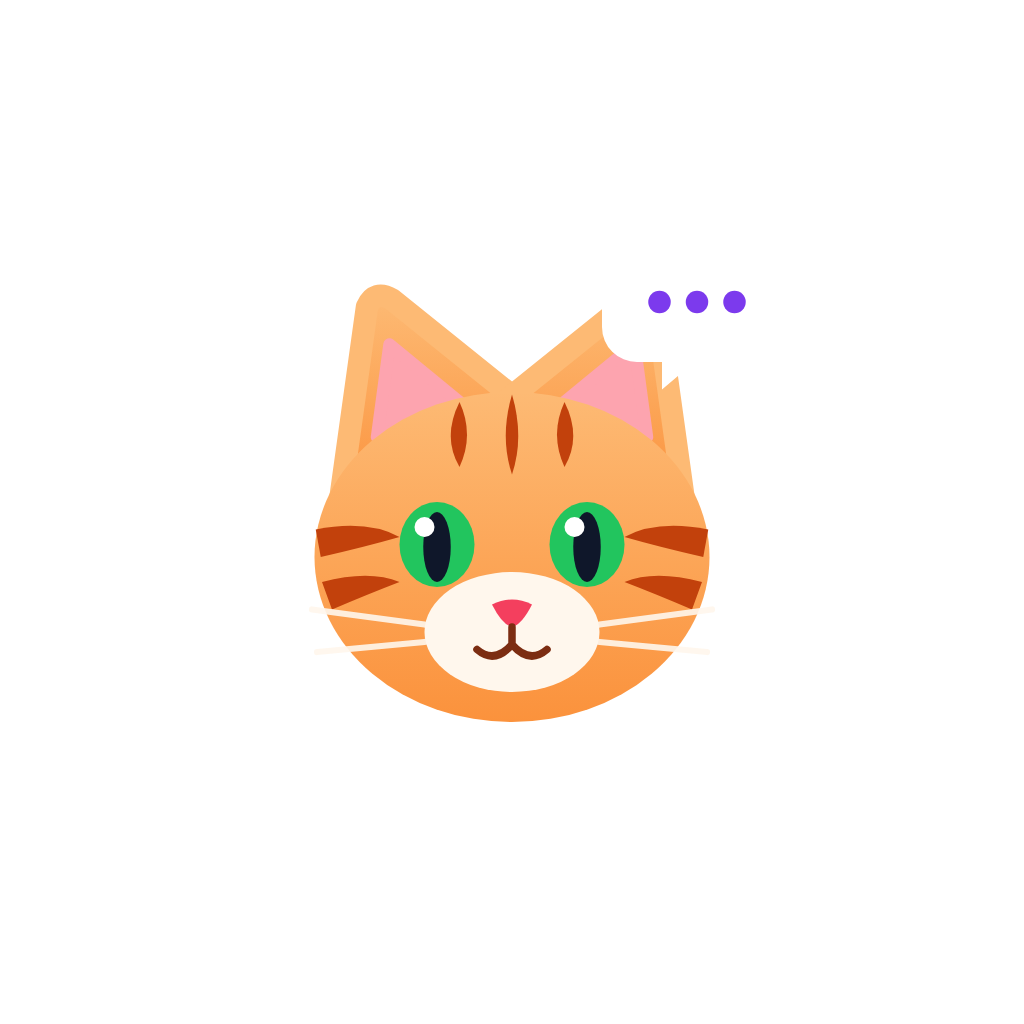
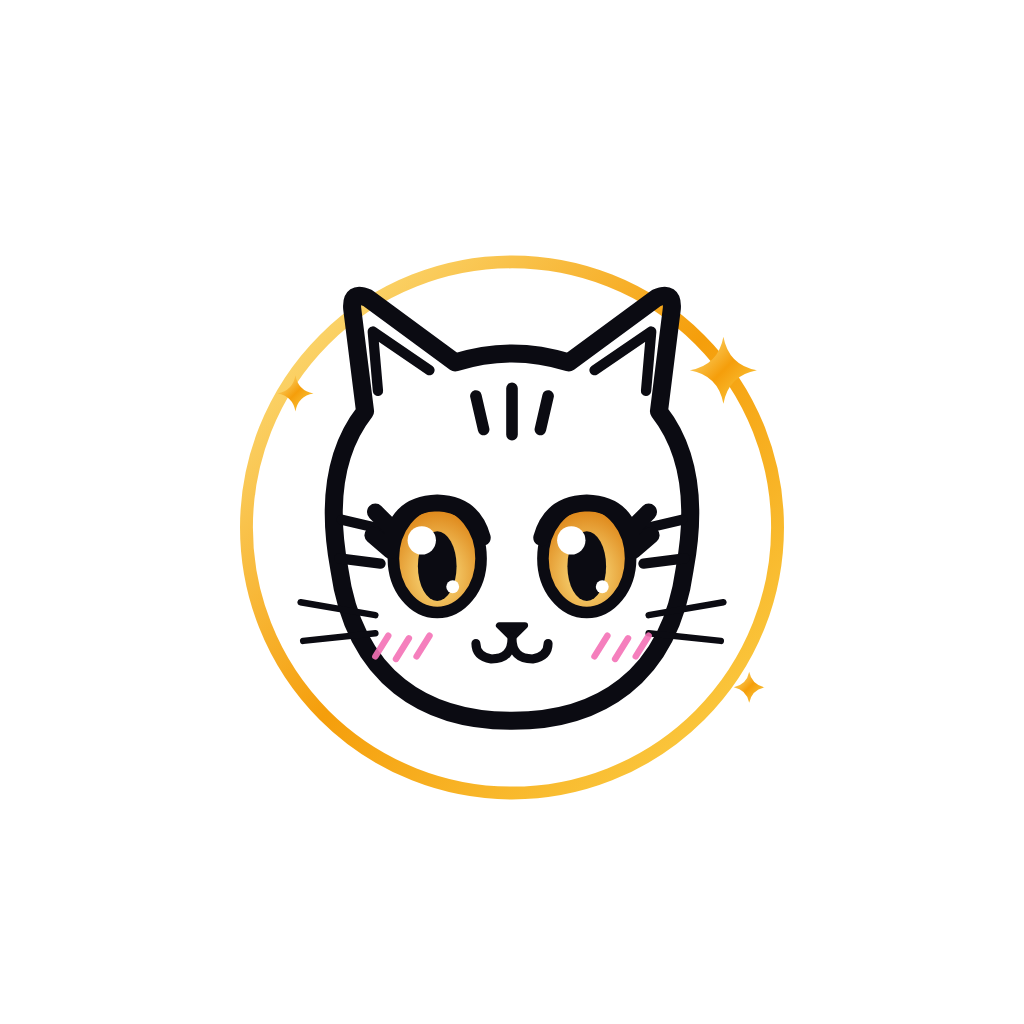
Clã Speak: gatinho só em contorno preto, estilo anime, no roxo e dourado
- Novo ícone (olhos dourados de anime, bochechas coradas, aro e brilhos dourados).
- Tela de abertura em roxo liso (APK bem menor) e telas do app em roxo com detalhes dourados.

Claude-Session: https://claude.ai/code/session_01LArP6X98NYfeHG5D1BxZJ1

Changed region(s): [[0.2188, 0.25, 0.7812, 0.7188], [0.3438, 0.7188, 0.6562, 0.7812]]

diff --git a/app/tradutor.html b/app/tradutor.html
@@ -19,7 +19,7 @@ button.sec{background:#e2e8f0;color:var(--tx)}
 button:disabled{opacity:.5}
 select,input{width:100%;padding:12px;border:1px solid #cbd5e1;border-radius:12px;background:#fff}
 label{display:block;font-size:.85rem;color:var(--mu);margin:12px 0 4px}
-header{background:linear-gradient(135deg,#7c3aed,#0ea5e9);color:#fff;padding:calc(env(safe-area-inset-top) + 10px) 14px 10px;display:flex;align-items:center;gap:10px}
+header{background:linear-gradient(135deg,#7c3aed,#4c1d95);border-bottom:3px solid #f59e0b;color:#fff;padding:calc(env(safe-area-inset-top) + 10px) 14px 10px;display:flex;align-items:center;gap:10px}
 header h1{font-size:1.1rem;margin:0;flex:1}
 header button{background:rgba(255,255,255,.18);padding:8px 12px;font-size:.9rem}
 .tela{display:none;height:100%;flex-direction:column}
@@ -39,7 +39,7 @@ header button{background:rgba(255,255,255,.18);padding:8px 12px;font-size:.9rem}
 .msg.vivo{opacity:.75;border:1px dashed var(--c2)}
 .msg button.ouvir{background:none;color:var(--c);padding:2px 6px;font-size:.85rem}
 #pessoas{font-size:.8rem;color:#ede9fe}
-.marca{display:flex;align-items:center;gap:10px}.marca img{width:36px;height:36px;border-radius:10px}
+.marca{display:flex;align-items:center;gap:10px}.marca img{width:38px;height:38px;border-radius:10px;box-shadow:0 0 0 2px #f59e0b}
 .barra{padding:10px 12px calc(env(safe-area-inset-bottom) + 10px);background:#fff;border-top:1px solid #e2e8f0;display:flex;gap:8px;align-items:center}
 .barra input{flex:1}
 .mic{width:64px;height:64px;border-radius:50%;font-size:1.6rem;padding:0;flex:none}
@@ -51,12 +51,12 @@ header button{background:rgba(255,255,255,.18);padding:8px 12px;font-size:.9rem}
 #f2f{display:none;height:100%;flex-direction:column}
 #f2f.on{display:flex}
 .lado{flex:1;display:flex;flex-direction:column;padding:12px;gap:8px;min-height:0}
-.lado.cima{transform:rotate(180deg);background:#e0f2fe}
+.lado.cima{transform:rotate(180deg);background:#fef3c7}
 .lado .texto{flex:1;overflow-y:auto;background:#fff;border-radius:14px;padding:12px;font-size:1.35rem;line-height:1.4}
 .lado .texto .p{color:var(--mu);font-size:.95rem}
 .lado .ctl{display:flex;gap:8px;align-items:center}
 .lado .ctl select{flex:1}
-.meio{display:flex;justify-content:center;gap:8px;padding:6px;background:linear-gradient(90deg,#7c3aed,#0ea5e9)}
+.meio{display:flex;justify-content:center;gap:8px;padding:6px;background:linear-gradient(90deg,#7c3aed,#4c1d95);border-top:3px solid #f59e0b;border-bottom:3px solid #f59e0b}
 .meio button{background:rgba(255,255,255,.2);padding:6px 12px;font-size:.85rem}
 </style>
 </head>

diff --git a/README.md b/README.md
@@ -16,7 +16,7 @@ como app próprio ("Clã Speak"). Arquivos: `app/tradutor.html`, `app/tradutor.j
   fica de cabeça para baixo); cada lado tem seu idioma e seu microfone.
 - Dá para digitar em vez de falar.
 - 24 idiomas (português, inglês, espanhol, francês, italiano, alemão, japonês, chinês, árabe…).
-- **APK Android próprio ("Clã Speak", ícone do gatinho listrado):** o workflow `.github/workflows/apk-tradutor.yml` gera o
+- **APK Android próprio ("Clã Speak", ícone do gatinho em contorno preto, estilo anime, no roxo e dourado):** o workflow `.github/workflows/apk-tradutor.yml` gera o
   `ClaSpeak.apk` (pasta `android-tradutor/`) e publica na página **Releases** do GitHub, com a etiqueta
   `tradutor-apk-N`. No APK, a voz usa os plugins nativos do Android (reconhecimento do Google e leitura
   em voz alta), e o convite para a sala é pelo código.
